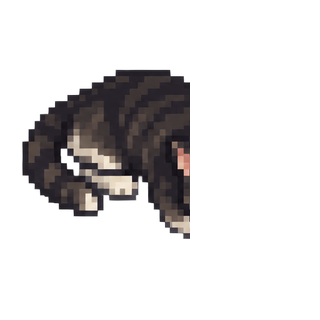
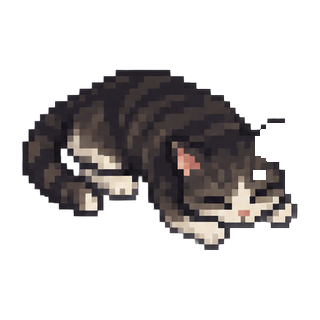
Sphynx: balanca a orelha esquerda (pequena), deixa a direita parada
O Sphynx e o unico dos tres gatos com as duas orelhas visiveis na
arte. Refatora Renderer.drawPet pra body+ear num unico espaco de
coordenadas (a sprite 320x320 inteira), sem a camada extra de "cabeca"
- mais simples e da espaco pra cada gato balancar a orelha que faz
sentido pra ele (a outra, quando existe, fica parada dentro do body).

Claude-Session: https://claude.ai/code/session_015PKALTMabxEeAhXa7bbh6h

Changed region(s): [[0.5938, 0.25, 0.9375, 0.7812]]

diff --git a/src/render/renderer.js b/src/render/renderer.js
@@ -196,23 +196,20 @@ export class Renderer {
     ctx.strokeRect(anchorX - w / 2, anchorY - h, w, h);
   }
 
-  // Recorte fixo (no espaco original do PNG 320x320) que isola cabeca +
-  // orelha do resto do corpo do pet - ver assets/props/pet_gato_*_body.png
-  // (corpo, com esse recorte de cabeca apagado). Mesmo recorte pras duas
-  // variantes de gato, pois ambas vem da mesma pose/composicao original.
-  static PET_HEAD_BOX = { x: 190, y: 80, w: 118, h: 182 };
   static PET_SPRITE_SIZE = 320;
 
   /**
    * Desenha um pet decorativo (puramente cosmetico) ancorado no
-   * bottom-center do tile, igual drawProp. Cabeca fica parada (junto do
-   * corpo); so a orelha (ear/earPivot, coordenadas relativas ao recorte
-   * de cabeca - ver PET_ROOM_SPRITES em main.js) gira em torno do pivo,
-   * onde ela encosta na cabeca.
+   * bottom-center do tile, igual drawProp. `body` e o sprite inteiro
+   * (320x320) com uma orelha apagada - ver assets/props/pet_gato_*_body.png;
+   * so essa orelha (ear/earBox/earPivot, coordenadas na MESMA sprite
+   * 320x320 - ver PET_ROOM_SPRITES em main.js) gira em torno do pivo,
+   * onde ela encosta na cabeca. A outra orelha (se houver) fica parada,
+   * ja desenhada dentro do proprio `body`.
    */
   drawPet(originCol, originRow, sprites, artHeightPx, wiggleAngleRad, xOffsetPx = 0, yOffsetPx = 0) {
-    const { body, headBase, ear, earPivot } = sprites;
-    if (!isImageReady(body) || !isImageReady(headBase) || !isImageReady(ear.image)) return;
+    const { body, ear, earBox, earPivot } = sprites;
+    if (!isImageReady(body) || !isImageReady(ear)) return;
     const ctx = this.ctx;
     const anchorX = this.originX + (originCol + 0.5) * TILE_SIZE + xOffsetPx;
     const anchorY = this.originY + (originRow + 1) * TILE_SIZE + yOffsetPx;
@@ -224,22 +221,15 @@ export class Renderer {
 
     ctx.drawImage(body, drawX, drawY, fullSize, fullSize);
 
-    const { x: headX, y: headY, w: headW, h: headH } = Renderer.PET_HEAD_BOX;
-    ctx.drawImage(headBase, drawX + headX * scale, drawY + headY * scale, headW * scale, headH * scale);
-
-    // earPivot/ear.box vem em coordenadas locais do recorte de cabeca -
-    // soma o offset do PET_HEAD_BOX pra virar coordenada da sprite inteira.
-    const pivotFullX = headX + earPivot.x;
-    const pivotFullY = headY + earPivot.y;
-    const pivotScreenX = drawX + pivotFullX * scale;
-    const pivotScreenY = drawY + pivotFullY * scale;
+    const pivotScreenX = drawX + earPivot.x * scale;
+    const pivotScreenY = drawY + earPivot.y * scale;
 
     ctx.save();
     ctx.translate(pivotScreenX, pivotScreenY);
     ctx.rotate(wiggleAngleRad);
-    const earOffsetX = (headX + ear.box.x - pivotFullX) * scale;
-    const earOffsetY = (headY + ear.box.y - pivotFullY) * scale;
-    ctx.drawImage(ear.image, earOffsetX, earOffsetY, ear.box.w * scale, ear.box.h * scale);
+    const earOffsetX = (earBox.x - earPivot.x) * scale;
+    const earOffsetY = (earBox.y - earPivot.y) * scale;
+    ctx.drawImage(ear, earOffsetX, earOffsetY, earBox.w * scale, earBox.h * scale);
     ctx.restore();
   }
 

diff --git a/src/main.js b/src/main.js
@@ -20,33 +20,33 @@ import { PLAYER_HOME_MAP_ID, HOME_BED_LOCATION } from './hackIntegration/homeLoc
 
 const STARTING_BYTE_BALANCE = 100;
 
-// Corpo/cabeca (sem orelha)/orelha em sprites separados pra so a orelha
-// balancar sozinha, sem depender de sprite-sheet de verdade - ver
-// Renderer.drawPet. earBox/earPivot sao relativos ao recorte de cabeca
-// (Renderer.PET_HEAD_BOX), calibrados a mao pra cada variante de gato
-// (a pose base e a mesma, mas o recorte exato da orelha muda um pouco
-// entre as duas artes).
+// Corpo (sprite 320x320 inteira, com uma orelha apagada) + orelha em
+// sprites separados pra so ela balancar sozinha, sem depender de
+// sprite-sheet de verdade - ver Renderer.drawPet. earBox/earPivot sao
+// coordenadas na MESMA sprite 320x320, calibrados a mao pra cada gato -
+// cada arte tem sua propria orelha "escolhida" pra balancar (a outra,
+// quando existe, fica parada, ja desenhada dentro do proprio body).
 const PET_ROOM_SPRITES = {
   gato_laranja: {
     body: 'pet_gato_laranja_body.png',
-    headBase: 'pet_gato_laranja_head_base.png',
     ear: 'pet_gato_laranja_ear.png',
-    earBox: { x: 58, y: 35, w: 39, h: 61 },
-    earPivot: { x: 77.5, y: 96 },
+    earBox: { x: 248, y: 115, w: 39, h: 61 },
+    earPivot: { x: 267.5, y: 176 },
   },
   gato_cinza: {
     body: 'pet_gato_cinza_body.png',
-    headBase: 'pet_gato_cinza_head_base.png',
     ear: 'pet_gato_cinza_ear.png',
-    earBox: { x: 63, y: 43, w: 32, h: 57 },
-    earPivot: { x: 79, y: 100 },
+    earBox: { x: 253, y: 123, w: 32, h: 57 },
+    earPivot: { x: 269, y: 180 },
   },
   gato_sphynx: {
+    // Sphynx tem as duas orelhas visiveis na arte (unico dos tres); a
+    // orelha grande da direita fica parada (dentro do body), e a
+    // pequena da esquerda e a que balanca.
     body: 'pet_gato_sphynx_body.png',
-    headBase: 'pet_gato_sphynx_head_base.png',
     ear: 'pet_gato_sphynx_ear.png',
-    earBox: { x: 50, y: 18, w: 55, h: 87 },
-    earPivot: { x: 77.5, y: 105 },
+    earBox: { x: 19, y: 140, w: 31, h: 70 },
+    earPivot: { x: 50, y: 175 },
   },
 };
 const PET_ROOM_ART_HEIGHT_PX = 46;
@@ -393,8 +393,8 @@ function startGame(characterId) {
       if (!petRoomImages[pet.id]) {
         petRoomImages[pet.id] = {
           body: loadPropImage(config.body),
-          headBase: loadPropImage(config.headBase),
-          ear: { image: loadPropImage(config.ear), box: config.earBox },
+          ear: loadPropImage(config.ear),
+          earBox: config.earBox,
           earPivot: config.earPivot,
         };
       }
